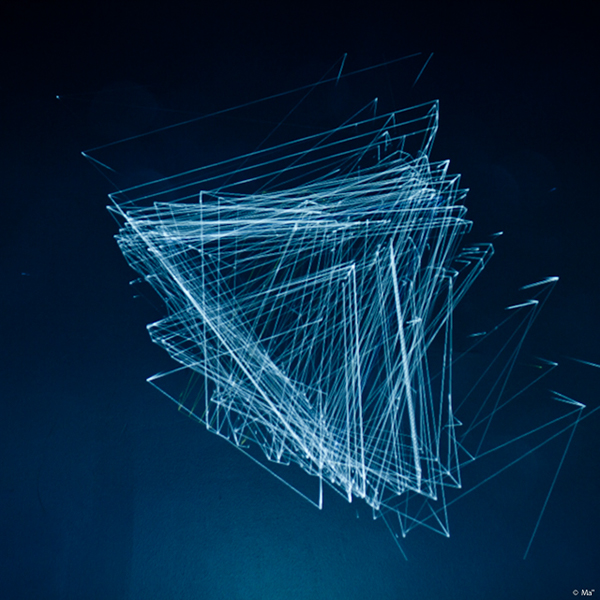
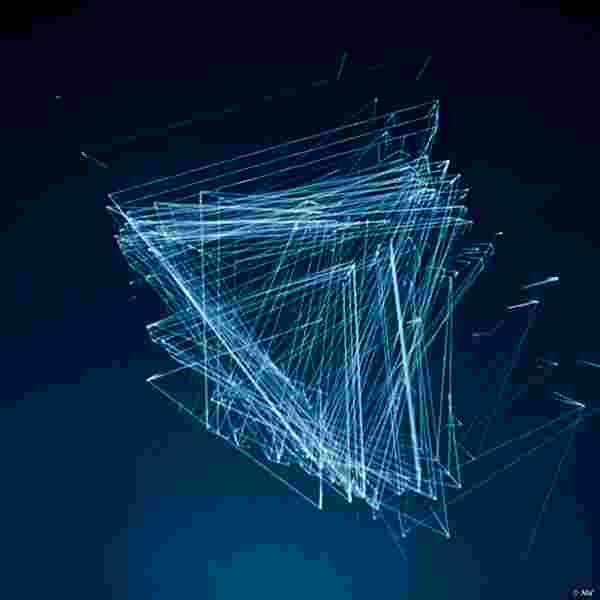
patch(imgs): change imgs to reduce sizes

diff --git a/main-parts/info.html b/main-parts/info.html
@@ -92,7 +92,7 @@
               <a
                 href="http://polomusealepiemonte.beniculturali.it/"
                 target="blank"
-                ><img src="img/pmp.png" alt="polomusealepiemonte" id="other"
+                ><img src="img/pmp.jpg" alt="polomusealepiemonte" id="other"
               /></a>
             </p>
           </div>
